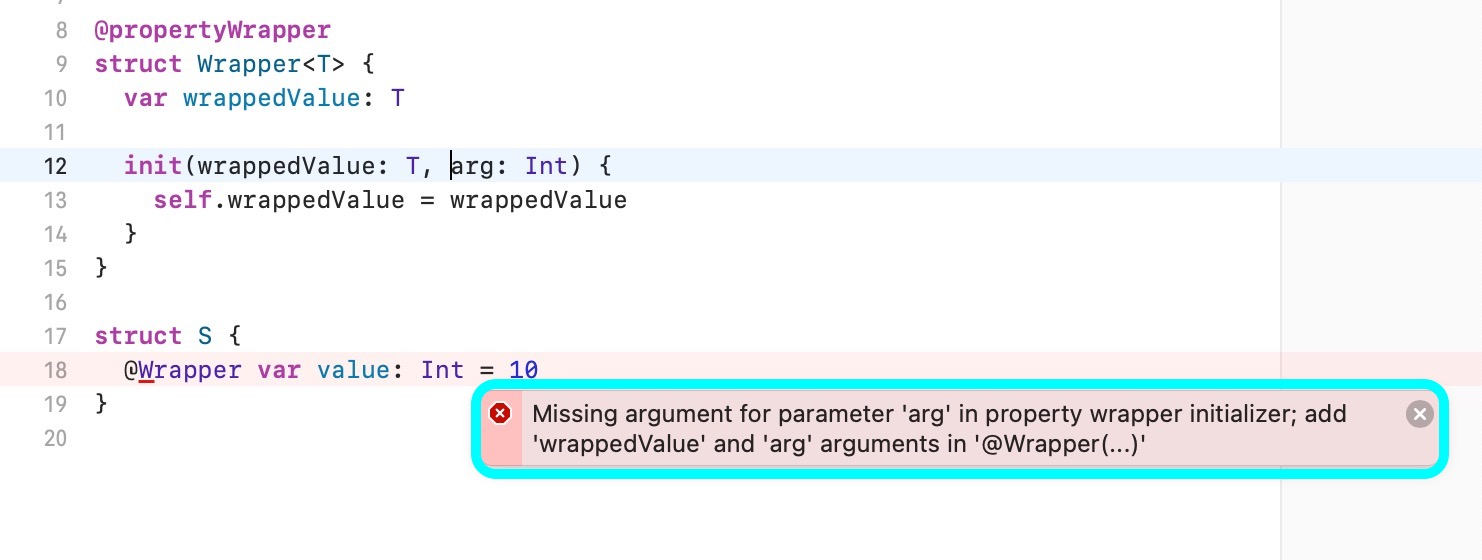
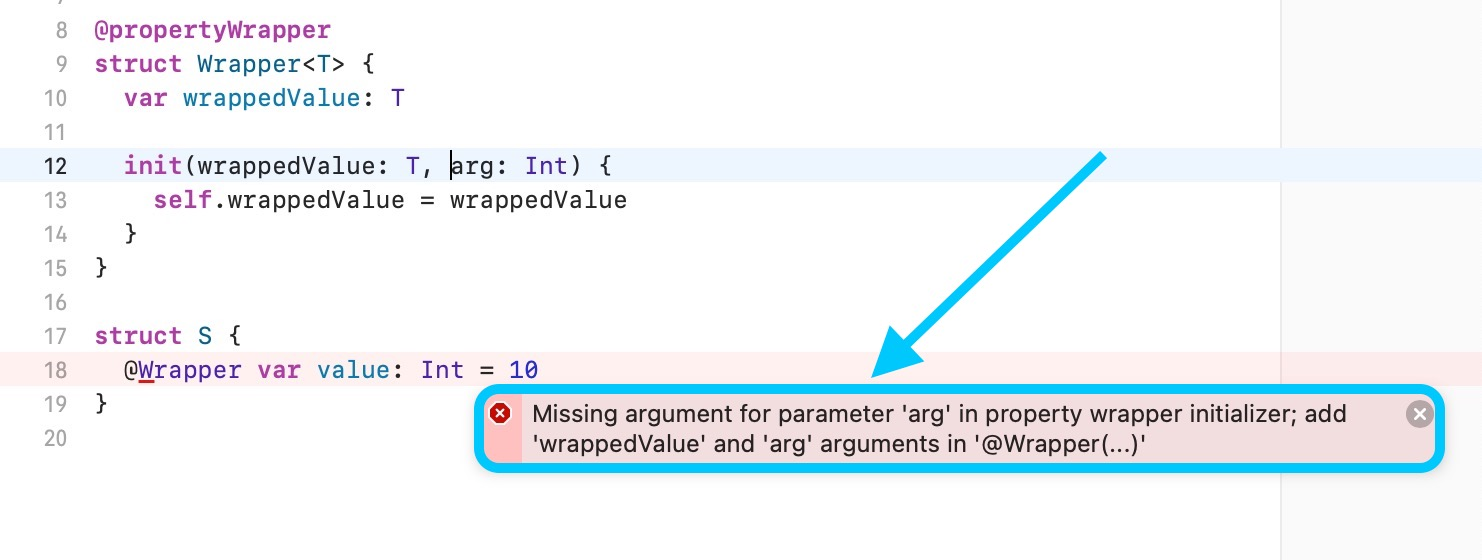
fixed color of highlight on fix-it example

Changed region(s): [[0.3104, 0.5161, 0.9933, 0.8804], [0.6518, 0.2732, 0.7449, 0.5161]]

diff --git a/README.md b/README.md
@@ -48,7 +48,7 @@
     ![](images/view-compiler-output.png)
 
     
-    ### If you want to just see the fix-it, simply write your program in Swift from within Xcode and build and run your program. The fix-it should reflect any errors that I wrote, should they apply to your program. They will look something like this:
+    ### If you want to just see the fix-it, simply write your program in Swift from within Xcode and build and run your program. The fix-it should reflect any errors that I wrote, should they apply to your program. They will look something like this (fixit is highlighted in blue)
     
     ![](images/fix-it-example.png)
     
